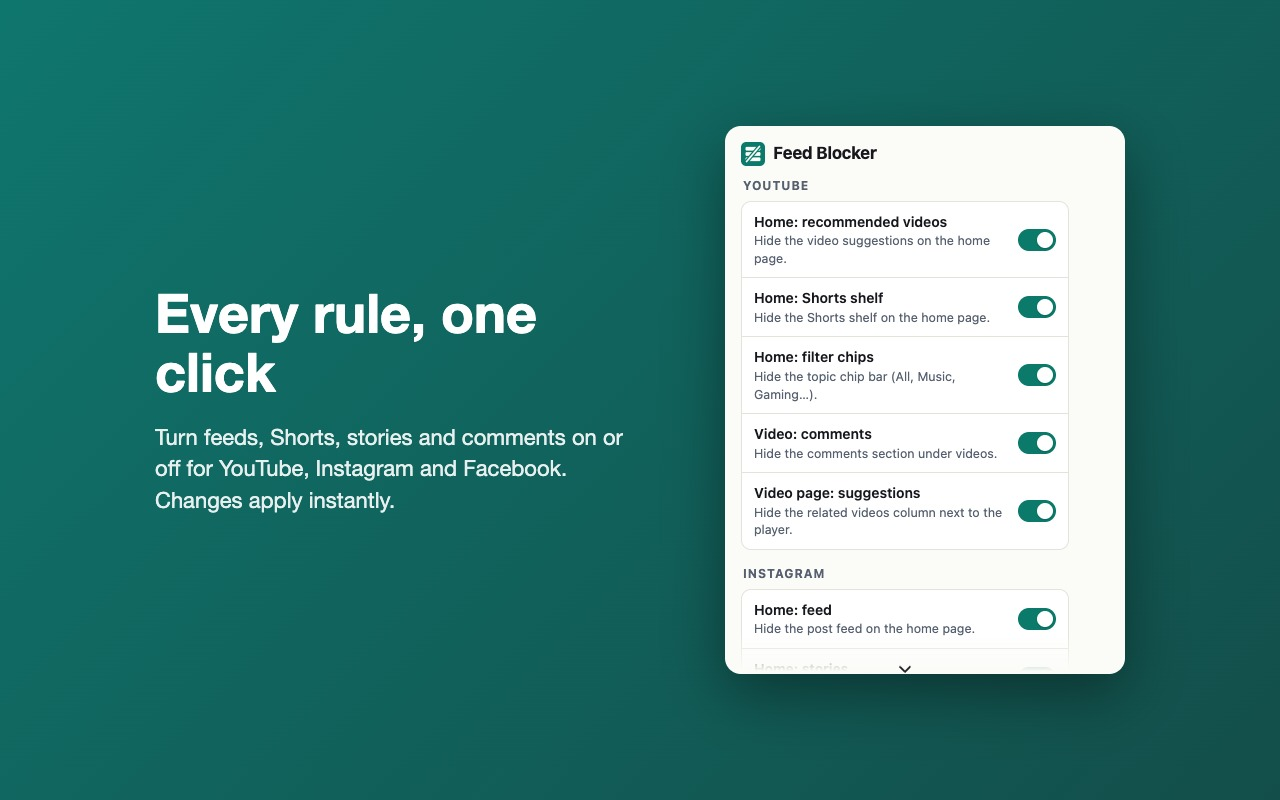
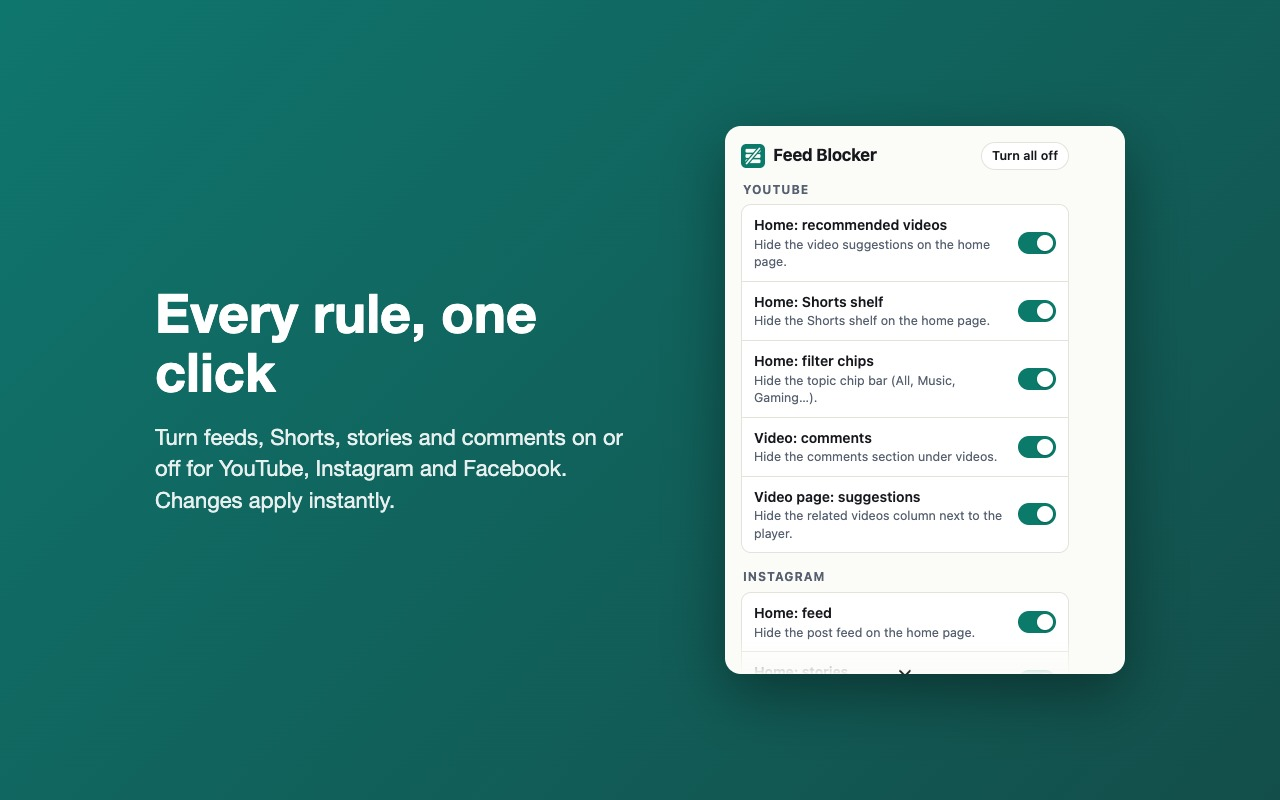
Add toggle-all button to popup

diff --git a/src/entrypoints/popup/App.svelte b/src/entrypoints/popup/App.svelte
@@ -1,7 +1,7 @@
 <script lang="ts">
   import { onMount } from 'svelte';
   import { browser } from 'wxt/browser';
-  import { ruleGroups } from '@/lib/rules';
+  import { ALL_RULES, ruleGroups } from '@/lib/rules';
   import { isEnabled, settingsItem, type Settings } from '@/lib/settings';
   import { siteForHostname } from '@/lib/sites';
 
@@ -37,6 +37,13 @@
     };
   });
 
+  const allOn = $derived(ALL_RULES.every((r) => isEnabled(settings, r)));
+
+  function toggleAll() {
+    settings = Object.fromEntries(ALL_RULES.map((r) => [r.id, !allOn]));
+    settingsItem.setValue($state.snapshot(settings));
+  }
+
   function toggle(id: string, checked: boolean) {
     settings = { ...settings, [id]: checked };
     settingsItem.setValue($state.snapshot(settings));
@@ -44,7 +51,10 @@
 </script>
 
 <main>
-  <h1><img src="/logo.svg" alt="" width="24" height="24" />Feed Blocker</h1>
+  <header>
+    <h1><img src="/logo.svg" alt="" width="24" height="24" />Feed Blocker</h1>
+    <button class="all" onclick={toggleAll}>{allOn ? 'Turn all off' : 'Turn all on'}</button>
+  </header>
   <div class="frame">
     <div class="scroll" bind:this={scroller} onscroll={updateMore}>
       <div class="content">
@@ -91,6 +101,31 @@
     box-sizing: border-box;
     padding: 16px;
   }
+  header {
+    display: flex;
+    align-items: center;
+    justify-content: space-between;
+    margin: 0 0 12px;
+  }
+  .all {
+    padding: 4px 10px;
+    border: 1px solid var(--border);
+    border-radius: 999px;
+    background: var(--surface);
+    color: var(--text);
+    font: inherit;
+    font-size: 12.5px;
+    font-weight: 600;
+    cursor: pointer;
+  }
+  .all:hover {
+    border-color: var(--accent);
+    color: var(--accent);
+  }
+  .all:focus-visible {
+    outline: 2px solid var(--accent);
+    outline-offset: 2px;
+  }
   h1 {
     display: flex;
     align-items: center;
@@ -98,7 +133,7 @@
     font-size: 17px;
     font-weight: 700;
     letter-spacing: -0.01em;
-    margin: 0 0 12px;
+    margin: 0;
   }
   .frame {
     position: relative;
